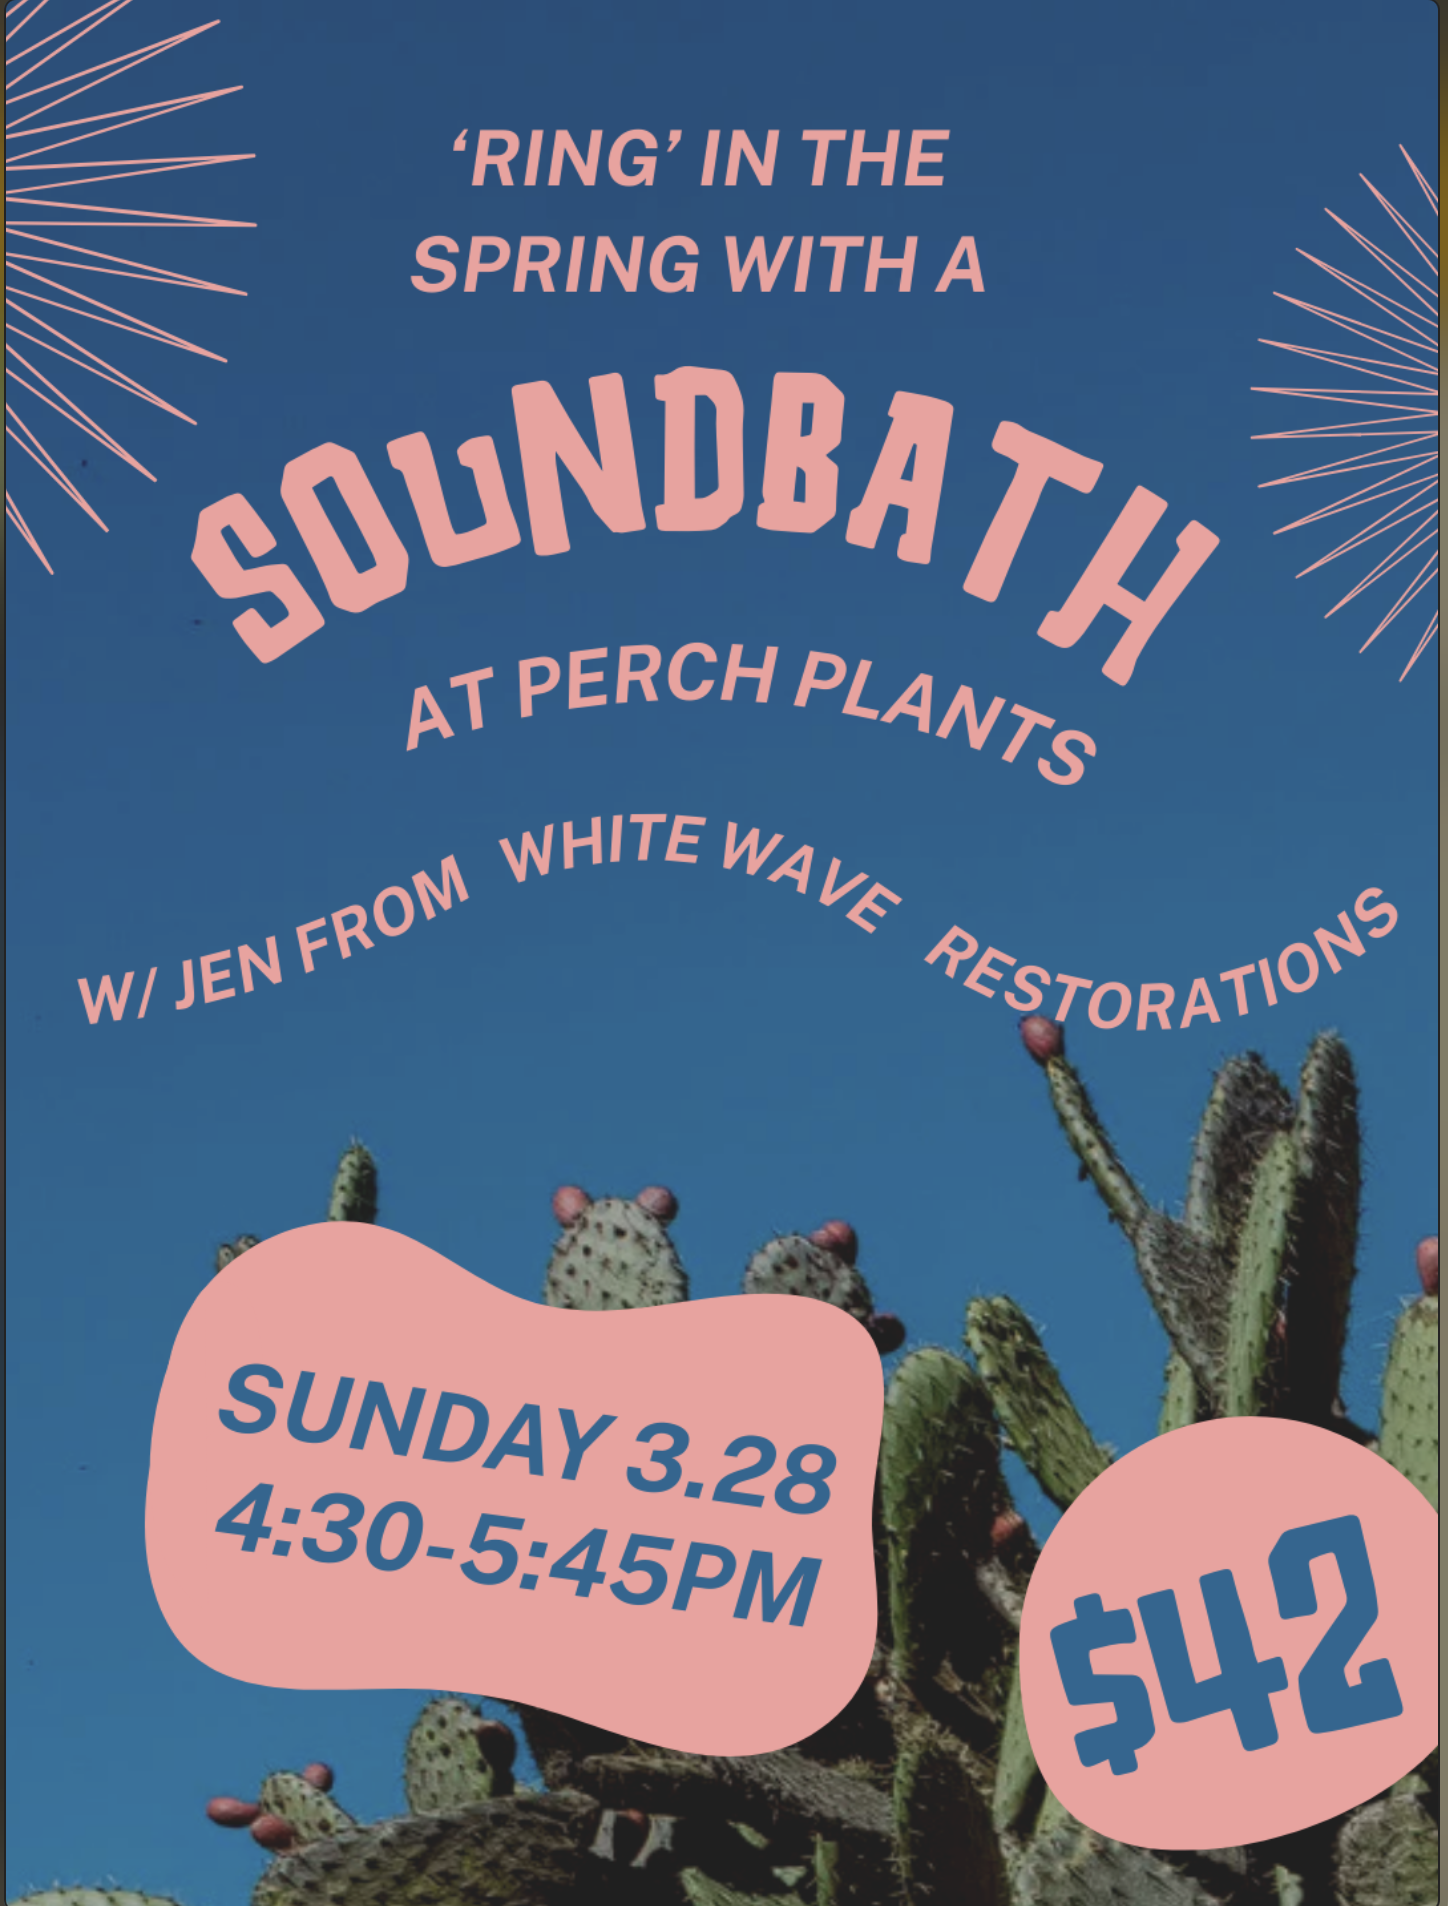
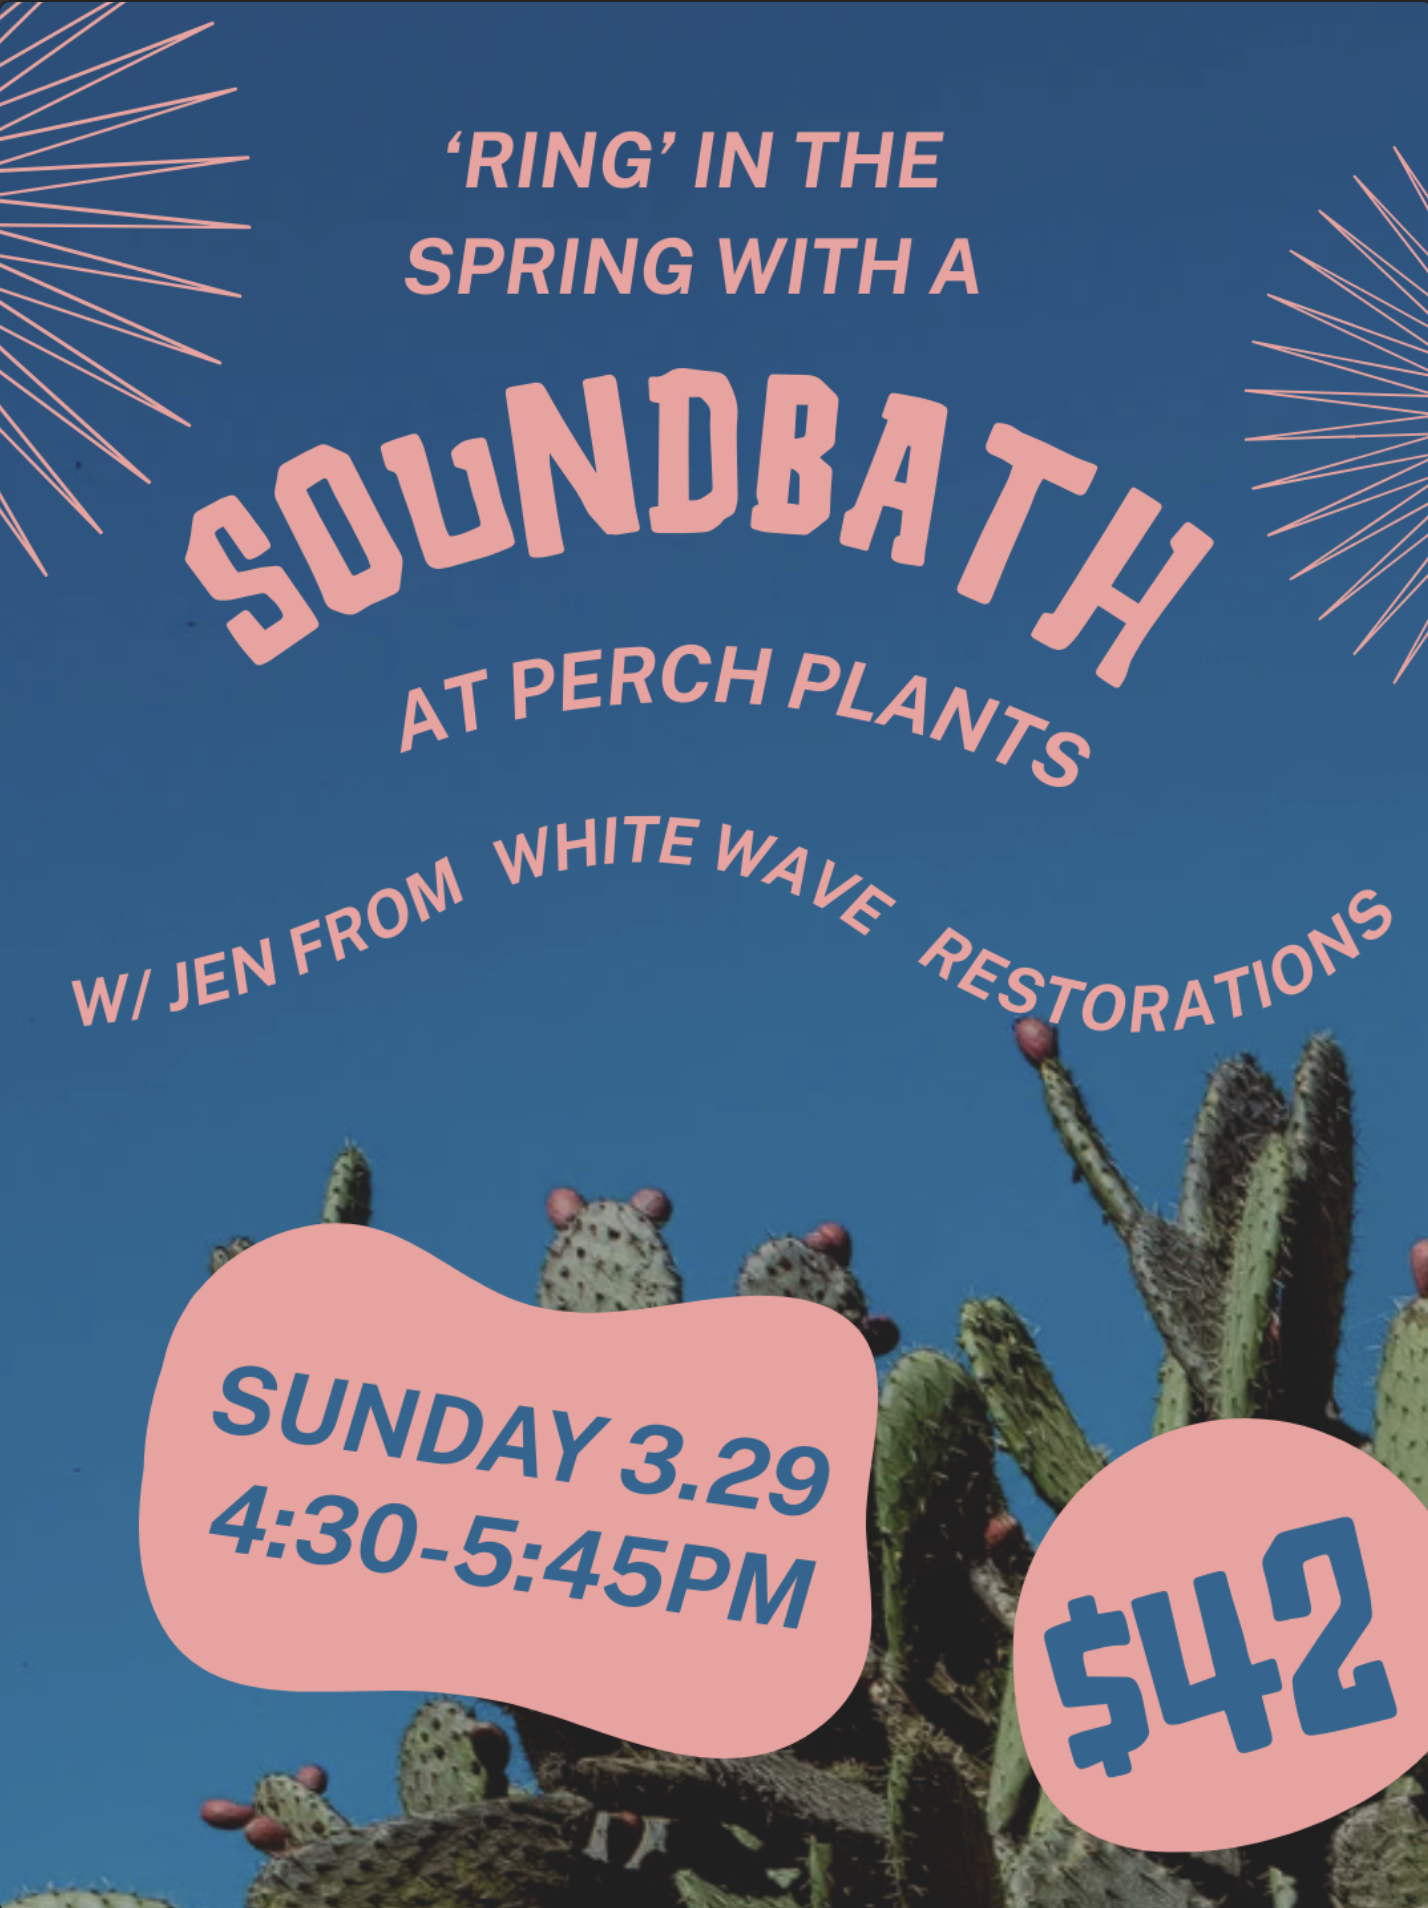
updates bioactive and soundbath image asset, fixes soundbath date

diff --git a/index.html b/index.html
@@ -136,7 +136,7 @@
               <img src="./img/soundbath.png" alt="Bioactive Terrarium Workshop flyer" class="eventFlyer" />
               <div class="eventTitle">
                 <h3>Soundbath @ Perch</h3>
-                <p class="eventDate">Tuesday 3/28 @ 4:30-5:45PM</p>
+                <p class="eventDate">Sunday 3/29 @ 4:30-5:45PM</p>
               </div>
             </div>
             <div class="eventDescription">
